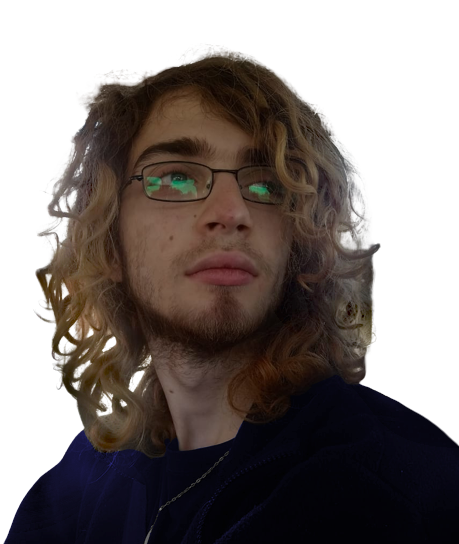
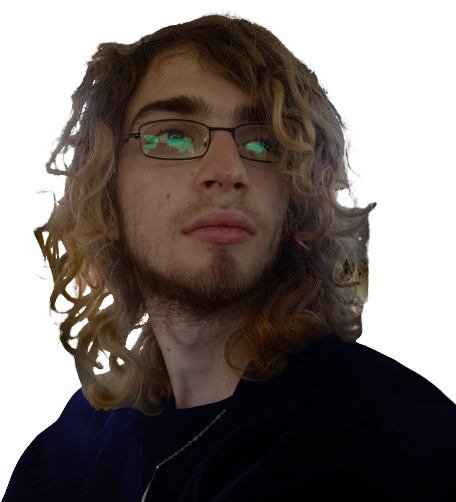
responsive test

diff --git a/index.html b/index.html
@@ -30,11 +30,12 @@
         <div class="container-md px-md-3">
             <div class="row justify-content-between align-content-center">
                 <div class="col-4 d-flex justify-content-center align-content-center">
-                    <h3 class="m-0 text-center text-1">Personal Page</h3>
+                    <h3 class="m-0 text-center text-1" id="personal-page-text">Personal Page</h3>
                 </div>
-                <div class="col-6 d-flex align-content-center justify-content-center">
-                    <div class="row justify-content-between align-content-center f flex-wrap ">
-                        <div class="col-4 text-1"><a class="link-neon" href="./files/curriculum-vitae-English.pdf">Curriculum</a></div>
+                <div class="col-8 d-flex align-content-center justify-content-end m-0">
+                    <div class="row justify-content-between align-content-center f flex-wrap navbar-options">
+                        <div class="col-4 text-1"><a class="link-neon"
+                                href="./files/curriculum-vitae-English.pdf">Curriculum</a></div>
                         <div class="col-4 text-1"><a class="link-neon" href="#footer">Contact Me</a></div>
                         <div class="col-4 pe-0 text-1 dropdownContainer">
                             <a class="link-neon iconContainer" id="dropdownButton" aria-expanded="false">
@@ -86,7 +87,7 @@
     </nav>
     <!-- Navbar End -->
 
-    
+
 
     <!-- Principal Section Start -->
     <section class="container-fluid background-color-base" id="Principal_Section">
@@ -95,11 +96,11 @@
                 <div class="col-7">
                     <div class="d-flex flex-column">
                         <h6 class="m-0 p-1 pb-0 minor-text hidden-up-1">I am</h6>
-                        <h1 class="m-0 p-0 hidden-up-1">
+                        <h1 class="m-0 p-0 hidden-up-1" id="franco-text" >
                             FRANCO
                         </h1>
                         <h1 class="m-0 p-0  ">
-                            <span class="hidden-up-2 d-inline-block">SANCHEZ</span><span
+                            <span class="hidden-up-2 d-inline-block" id="sanchez-text" >SANCHEZ</span><span
                                 class="minor-text ms-1 pb-0 hidden-up-3 d-inline-block">a</span>
                         </h1>
                         <h2 class="sub-title hidden-left-1" id="sub-title-my-job">Front End Developer</h2>
@@ -107,8 +108,8 @@
                     </div>
                 </div>
                 <div class="col-5">
-                    <div class="d-flex justify-content-center align-content-center h-100">
-                        <img class="" id="personal-photo" src="assets/Photos/imagenparacoso-removebg-preview.png"
+                    <div class="d-flex justify-content-center align-content-center h-100 m-auto">
+                        <img class="align-self-center" id="personal-photo" src="assets/Photos/imagenparacoso-removebg-preview.png"
                             alt="">
                     </div>
                 </div>
@@ -126,10 +127,10 @@
     <!-- About Me Section Start -->
     <section class="about-me">
         <div class="mt-5">
-            <div class="container-fluid divisionFrame">
+            <div class="container divisionFrame">
                 <div class="row justify-content-center">
                     <div class="col-8 justify-content-center">
-                        <div class="grid-1 background-black-1 text-2">
+                        <div class="grid-1 text-2">
                             <div class="grid-area-title title-1-container justify-content-center">
                                 <h3 class="title-1 text-start h-50 text-3 my-breif-history">
                                     My Breif History
@@ -182,25 +183,22 @@
         </div>
 
 
-        <div class="container-fluid divisionFrame">
-            <div class="row justify-content-center">
-                <div class="col-10">
-                    <div class="grid-2 text-2">
-                        <h3 class="title-1 text-center grid-area-title m-auto text-3">
-                            Pasions
-                        </h3>
-                        <img class="img-1 grid-area-img-1 m-0 img-hidden-left" src="assets/Photos/aprender_3.jpg"
-                            alt="">
-                        <img class="img-2 grid-area-img-2 m-0 img-hidden-right" src="assets/Photos/enceñar.jpg" alt="">
-                        <p class="text-center grid-area-text-1 pharagraph-description-1"><span
-                                class="i_appercase">I</span> really enjoy learning from
-                            what I like and to transmit the same knowledge,
-                            I will always be willing to learn new things and to teach the knowledge acquired with the
-                            greater detail and simplicity possible. <br> I really enjoy programming and creating new
-                            things
-                            whether programs, computer systems or web pages
-                        </p>
-                    </div>
+        <div class="container-lg divisionFrame">
+            <div class="row justify-content-center align-content-center col-12 m-0">
+                <div class="grid-2 text-2">
+                    <h3 class="title-1 text-center grid-area-title m-auto text-3 ">
+                        Pasions
+                    </h3>
+                    <img class="img-1 grid-area-img-1 m-0 img-hidden-left" src="assets/Photos/aprender_3.jpg" alt="">
+                    <img class="img-2 grid-area-img-2 m-0 img-hidden-right" src="assets/Photos/enceñar.jpg" alt="">
+                    <p class="text-center grid-area-text-1 pharagraph-description-1"><span class="i_appercase">I</span>
+                        really enjoy learning from
+                        what I like and to transmit the same knowledge,
+                        I will always be willing to learn new things and to teach the knowledge acquired with the
+                        greater detail and simplicity possible. <br> I really enjoy programming and creating new
+                        things
+                        whether programs, computer systems or web pages
+                    </p>
                 </div>
             </div>
         </div>
@@ -208,7 +206,7 @@
 
         <div class="container divisionFrame">
             <div class="row justify-content-center">
-                <div class="col-10">
+                <div class="col-md-10">
                     <div class="grid-3 text-2">
                         <div
                             class="container-fluid grid-area-title container-title-3 d-flex justify-content-center m-0">
@@ -244,7 +242,7 @@
 
     <!-- Footer with my info -->
     <section>
-        <footer class="container-fluid" id="footer" role="contentinfo" >
+        <footer class="container-fluid" id="footer" role="contentinfo">
             <div class="container">
                 <div class="row justify-content-center">
                     <div class="col-12 text-center">
@@ -288,7 +286,7 @@
                             </li>
                             <li>
                                 <div class="row">
-                                    <div class="col-6 text-end  pe-1">
+                                    <div class="col-6 text-end pe-1">
                                         Github Accaunt:
                                     </div>
                                     <div class="col-6 text-start">

diff --git a/css/style.css b/css/style.css
@@ -1,6 +1,3 @@
-
-
-
 @font-face {
     font-family: "titleFont";
     src: url("/PersonalPage/assets/Fonts/Anton-Regular.ttf");
@@ -58,6 +55,7 @@
 
 body {
     background-color: var(--background-blue-1);
+    overflow-x: hidden;
 }
 
 
@@ -265,6 +263,9 @@ h1 {
     white-space: nowrap;
 }
 
+#personal-page-text {
+    white-space: nowrap;
+}
 
 #Principal_Section {
     color: var(--background-blue-1);
@@ -283,12 +284,15 @@ h1 {
     align-self: stretch;
     justify-self: stretch;
 
-    width: 400px;
-    height: 400px;
+    max-width: 400px;
+    max-height: 400px;
 
-    border-radius: 50%;
+    /* border-radius: 50%; */
+    border-end-start-radius: 50%;
+    border-end-end-radius: 50%;
 
-    margin: auto;
+    /* margin: auto; */
+    
 }
 
 
@@ -380,6 +384,7 @@ h1 {
 .grid-2 {
     height: 405px;
     width: 100%;
+    padding: 0;
 
 
     display: grid;
@@ -427,9 +432,9 @@ h1 {
     display: grid;
     grid-template-columns: repeat(4, 2fr) 1fr;
     grid-template-rows: 120px 189px 70px;
-    grid-template-areas:    'title      title      img_1       img_1        nothing_1'
-                            'texto_1    texto_1    texto_1     img_2        img_2'
-                            'img_3      texto_2    texto_2     texto_2      nothing_2'
+    grid-template-areas: 'title      title      img_1       img_1        nothing_1'
+        'texto_1    texto_1    texto_1     img_2        img_2'
+        'img_3      texto_2    texto_2     texto_2      nothing_2'
     ;
 
     column-gap: 9px;
@@ -499,20 +504,29 @@ h1 {
 }
 
 @media only screen and (min-width: 1400px) {
+    .navbar-options {
+        margin: 0px 30px 0px 30px;
+    }
+
     .grid-3 {
         grid-template-columns: repeat(4, 200px) 100px;
     }
 
-    .grid-3 .grid-area-text-1,.grid-3 .grid-area-text-2 {
+    .grid-3 .grid-area-text-1,
+    .grid-3 .grid-area-text-2 {
         font-size: 22px;
     }
 }
 
 @media only screen and (max-width: 1400px) {
-
+    .navbar-options {
+        margin: 0px 30px 0px 30px;
+    }
 }
 
 @media only screen and (max-width: 1200px) {
+
+
     .grid-2 {
         height: 450px;
         grid-template-rows: 100px 350px;
@@ -525,37 +539,70 @@ h1 {
 
         line-height: 27px;
     }
-    .grid-3 .grid-area-text-1,.grid-3 .grid-area-text-2 {
+
+    .grid-3 .grid-area-text-1,
+    .grid-3 .grid-area-text-2 {
         font-size: 22px;
     }
-    
+
 }
 
 @media only screen and (max-width: 992px) {
-    .grid-3 {
-        background-color: #124626;
-        height: 460px;
-        grid-template-rows: 120px 244px 85px;
-
-        line-height: 27px;
+    #personal-photo {
+        max-height: 360px;
     }
 
-    .grid-3 .grid-area-text-1,.grid-3 .grid-area-text-2 {
-        font-size: 19px;
+    h1 {
+        font-size: 120px;
+        line-height: 120px;
+    }
+
+
+    .grid-3 {
+        background-color: #124626;
+        height: 510px;
+        grid-template-rows: 120px 270px 100px;
+
+        line-height: 27px;
+        grid-template-columns: repeat(4, 22%) 80px;
+    }
+
+    .grid-3 .grid-area-text-1,
+    .grid-3 .grid-area-text-2 {
+        font-size: 22px;
+    }
+
+    .grid-2 {
+        height: 500px;
+        grid-template-rows: 70px 350px;
+        grid-template-columns: 30% 40% 30%;
+
+}
+}
+
+
+@media only screen and (max-width: 768px) {
+
+    #personal-photo {
+        max-height: 300px;
+    }
+
+    .navbar-options {
+        margin: 0;
+        padding: 0;
+    }
+    .grid-2 {
+        background-color: #cf8413;
+        grid-template-rows: 70px 480px;
+        height: fit-content;
     }
 
 }
 
-@media only screen and (max-width: 768px) {}
 
+@media only screen and (max-width: 576px) {
+    #personal-page-text .link-neon .grid-2 {
+        background-color: antiquewhite;
+    }
 
-@media only screen and (max-width: 576px) {}
-
-
-
-
-
-
-
-
-
+}
